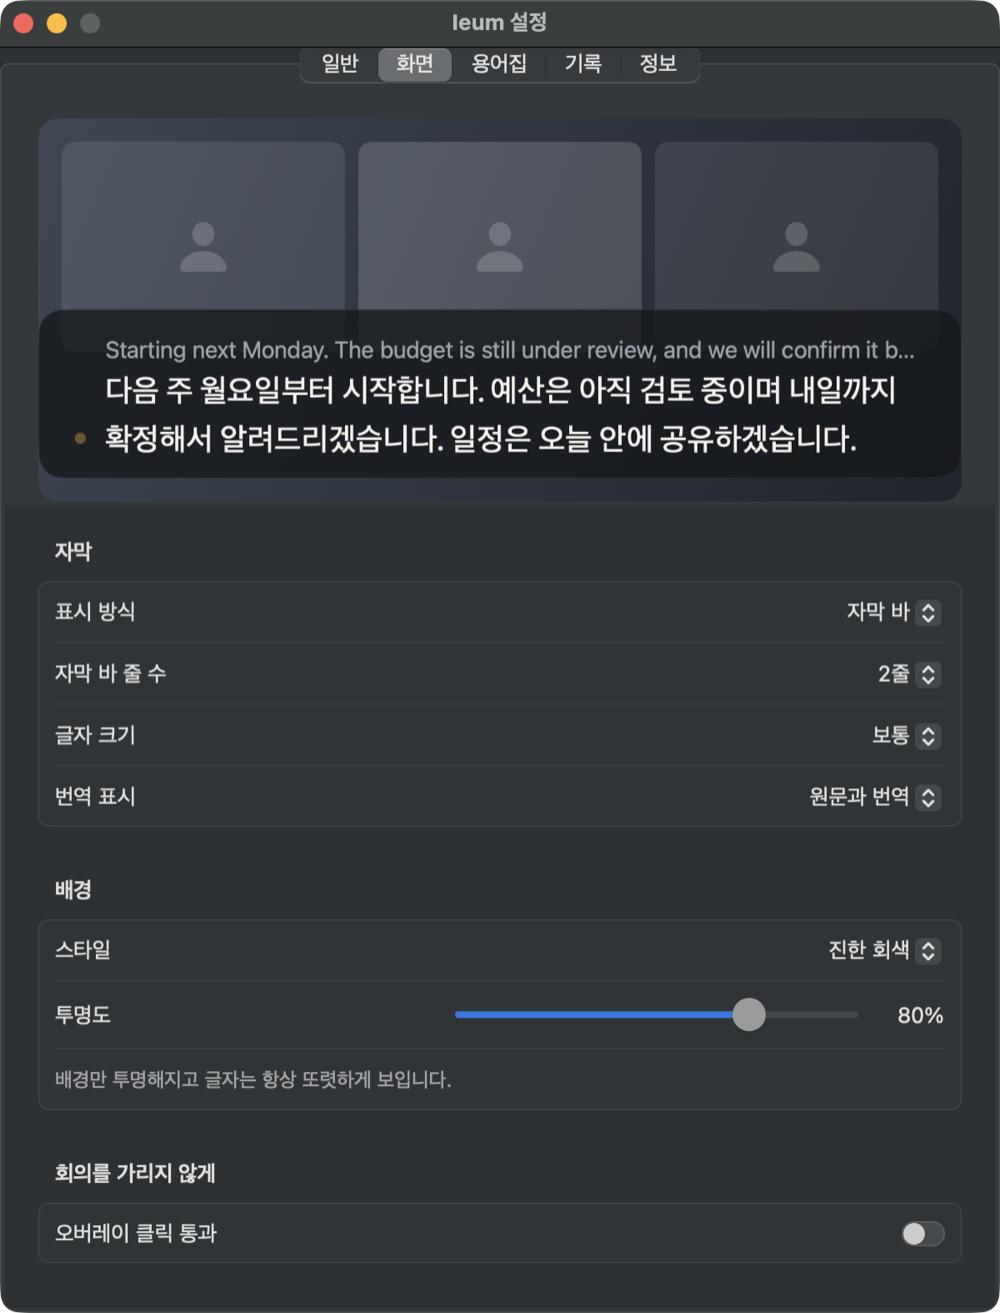
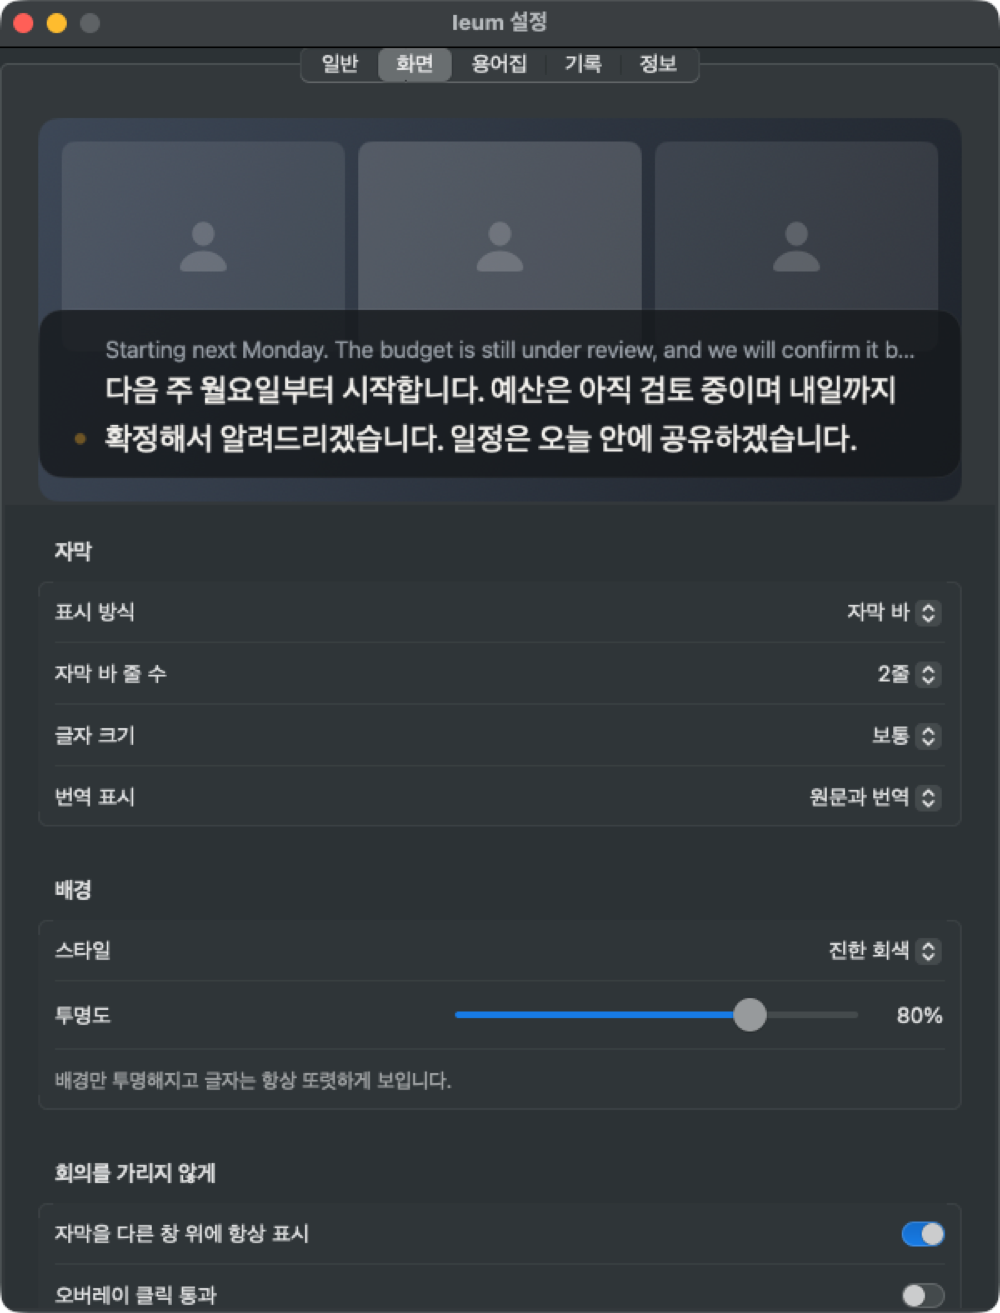
Choose whether the captions stay above all windows
The overlay was always a floating window. A new setting (Settings > Display, the menu bar
menu and the overlay menu) lets it behave like an ordinary window that other windows
can cover. In that mode the show/hide shortcut brings a covered overlay forward instead
of hiding it, and a Bring captions to the front item appears. Default is unchanged (on top).

diff --git a/Sources/OverlayApp/OverlayWindow.swift b/Sources/OverlayApp/OverlayWindow.swift
@@ -29,7 +29,7 @@ final class OverlayWindowController {
         panel.isOpaque = false
         panel.backgroundColor = .clear
         panel.hasShadow = true
-        panel.level = .floating
+        panel.level = model.keepsOnTop ? .floating : .normal
         panel.collectionBehavior = [.canJoinAllSpaces, .fullScreenAuxiliary, .ignoresCycle]
         panel.isMovableByWindowBackground = true
         panel.hidesOnDeactivate = false
@@ -65,6 +65,11 @@ final class OverlayWindowController {
             .store(in: &cancellables)
 
         // Hidden and click-through are state of the model; the window just follows.
+        model.$keepsOnTop
+            .dropFirst()
+            .receive(on: DispatchQueue.main)
+            .sink { [weak self] _ in self?.applyPresence() }
+            .store(in: &cancellables)
         model.$overlayVisible
             .receive(on: DispatchQueue.main)
             .sink { [weak self] _ in self?.applyPresence() }
@@ -92,8 +97,35 @@ final class OverlayWindowController {
             panel.orderOut(nil)
             return
         }
-        panel.orderFrontRegardless()
+        panel.level = model.keepsOnTop ? .floating : .normal
+        // On top, the captions are always raised. As an ordinary window they are only raised when they were not showing,
+        // so a status change never pulls them over what the person is working in.
+        if model.keepsOnTop || !panel.isVisible { panel.orderFrontRegardless() }
         panel.alphaValue = 1
+    }
+
+    func bringToFront() { panel.orderFrontRegardless() }
+
+    /// Whether another app's window sits above the captions and overlaps them (only meaningful when they are not kept on top).
+    func isCoveredByAnotherWindow() -> Bool {
+        guard panel.isVisible,
+              let windows = CGWindowListCopyWindowInfo([.optionOnScreenOnly], kCGNullWindowID) as? [[String: Any]],
+              let primary = NSScreen.screens.first
+        else { return false }
+        // Window bounds are top-left based; AppKit frames are bottom-left based on the primary screen.
+        let frame = panel.frame
+        let mine = CGRect(x: frame.minX, y: primary.frame.height - frame.maxY, width: frame.width, height: frame.height)
+        let ownPID = ProcessInfo.processInfo.processIdentifier
+        for window in windows {   // front to back
+            if (window[kCGWindowNumber as String] as? Int) == panel.windowNumber { return false }
+            guard (window[kCGWindowOwnerPID as String] as? Int32) != ownPID,
+                  (window[kCGWindowLayer as String] as? Int) == 0,
+                  let bounds = window[kCGWindowBounds as String] as? [String: CGFloat],
+                  let x = bounds["X"], let y = bounds["Y"], let width = bounds["Width"], let height = bounds["Height"]
+            else { continue }
+            if CGRect(x: x, y: y, width: width, height: height).intersects(mine) { return true }
+        }
+        return false
     }
 
     // MARK: Placement

diff --git a/Sources/OverlayApp/MenuBarController.swift b/Sources/OverlayApp/MenuBarController.swift
@@ -86,6 +86,12 @@ final class MenuBarController: NSObject, NSMenuDelegate {
         let visibility = action(model.overlayVisible ? tr("Hide overlay", "오버레이 숨기기") : tr("Show overlay", "오버레이 보이기"), #selector(toggleOverlay), key: "h")
         visibility.keyEquivalentModifierMask = [.control, .option]
         menu.addItem(visibility)
+        let onTop = action(tr("Keep on top of other windows", "다른 창 위에 항상 표시"), #selector(toggleKeepOnTop))
+        onTop.state = model.keepsOnTop ? .on : .off
+        menu.addItem(onTop)
+        if !model.keepsOnTop {
+            menu.addItem(action(tr("Bring captions to the front", "자막을 앞으로 가져오기"), #selector(bringToFront)))
+        }
         let display = action(model.displayMode == .bar ? tr("Switch to transcript panel", "기록 패널로 전환") : tr("Switch to subtitle bar", "자막 바로 전환"), #selector(cycleDisplay), key: "d")
         display.keyEquivalentModifierMask = [.control, .option]
         menu.addItem(display)
@@ -111,6 +117,8 @@ final class MenuBarController: NSObject, NSMenuDelegate {
 
     @objc private func toggleRunning() { model.toggleRunning() }
     @objc private func toggleOverlay() { model.toggleOverlayVisible() }
+    @objc private func bringToFront() { model.bringOverlayToFront() }
+    @objc private func toggleKeepOnTop() { model.setKeepsOnTop(!model.keepsOnTop) }
     @objc private func swapDirection() { model.swapDirection() }
     @objc private func cycleDisplay() { model.cycleDisplayMode() }
     @objc private func showSettings() { openSettings() }

diff --git a/Sources/OverlayApp/AppModel.swift b/Sources/OverlayApp/AppModel.swift
@@ -43,8 +43,11 @@ final class AppModel: ObservableObject {
     private var testVoice: Process?
     /// Set by the app delegate: the overlay's menu opens the windows it owns.
     var openSettings: () -> Void = {}
+    var bringOverlayToFront: () -> Void = {}
+    var overlayIsCovered: () -> Bool = { false }
     var openSetup: () -> Void = {}
     @Published private(set) var clickThrough = Preferences.clickThrough
+    @Published private(set) var keepsOnTop = Preferences.keepsOnTop
     @Published private(set) var globalShortcuts = Preferences.globalShortcuts
     @Published private(set) var uiLanguage = Preferences.uiLanguage
 
@@ -316,7 +319,20 @@ final class AppModel: ObservableObject {
         updateSecondaryRow()
     }
 
-    func toggleOverlayVisible() { overlayVisible.toggle() }
+    /// The show/hide shortcut. When the captions can sit behind other windows and one covers them, it brings them forward
+    /// instead of hiding what the person is trying to see.
+    func toggleOverlayVisible() {
+        if overlayVisible, !keepsOnTop, overlayIsCovered() {
+            bringOverlayToFront()
+            return
+        }
+        overlayVisible.toggle()
+    }
+
+    func setKeepsOnTop(_ on: Bool) {
+        keepsOnTop = on
+        Preferences.keepsOnTop = on
+    }
 
     // MARK: Settings: behavior
 

diff --git a/Sources/OverlayApp/SettingsView.swift b/Sources/OverlayApp/SettingsView.swift
@@ -197,6 +197,13 @@ private struct DisplayTab: View {
                     .foregroundStyle(.secondary)
             }
             Section(tr("Stay out of the way", "회의를 가리지 않게")) {
+                Toggle(tr("Keep captions on top of other windows", "자막을 다른 창 위에 항상 표시"), isOn: Binding(get: { model.keepsOnTop }, set: model.setKeepsOnTop))
+                if !model.keepsOnTop {
+                    Text(tr("Other windows can cover the captions, like any window. Press ⌃⌥H to bring them back to the front.",
+                            "다른 창이 자막을 가릴 수 있습니다(일반 창처럼). ⌃⌥H를 누르면 자막이 앞으로 나옵니다."))
+                        .font(.system(size: 12))
+                        .foregroundStyle(.secondary)
+                }
                 Toggle(tr("Click through the overlay", "오버레이 클릭 통과"), isOn: Binding(get: { model.clickThrough }, set: model.setClickThrough))
                 if model.clickThrough {
                     Text(tr("Clicks go to the window underneath. Turn this off to move or resize the overlay.",

diff --git a/Sources/OverlayApp/OverlayViews.swift b/Sources/OverlayApp/OverlayViews.swift
@@ -211,6 +211,10 @@ struct OverlayMenuButton: View {
                 }
             }
             Button(model.displayMode == .bar ? tr("Show transcript panel", "기록 패널로 전환") : tr("Show subtitle bar", "자막 바로 전환")) { model.cycleDisplayMode() }
+            Toggle(tr("Keep on top of other windows", "다른 창 위에 항상 표시"), isOn: Binding(get: { model.keepsOnTop }, set: model.setKeepsOnTop))
+            if !model.keepsOnTop {
+                Button(tr("Bring captions to the front", "자막을 앞으로 가져오기")) { model.bringOverlayToFront() }
+            }
             Divider()
             Button(tr("Settings…", "설정…")) { model.openSettings() }
             Button(tr("Permissions and setup…", "권한 및 설정 점검…")) { model.openSetup() }

diff --git a/Sources/OverlayApp/main.swift b/Sources/OverlayApp/main.swift
@@ -28,6 +28,8 @@ final class AppDelegate: NSObject, NSApplicationDelegate {
         model.openSettings = { [weak self] in self?.settingsWindow?.show() }
         model.openSetup = { [weak self] in self?.setupWindow?.show() }
         overlay = OverlayWindowController(model: model)
+        model.bringOverlayToFront = { [weak self] in self?.overlay?.bringToFront() }
+        model.overlayIsCovered = { [weak self] in self?.overlay?.isCoveredByAnotherWindow() ?? false }
         menu = MenuBarController(
             model: model,
             openSettings: { [weak self] in self?.settingsWindow?.show() },

diff --git a/Sources/OverlayApp/Preferences.swift b/Sources/OverlayApp/Preferences.swift
@@ -83,6 +83,12 @@ enum Preferences {
         set { defaults.set(newValue, forKey: "showsWordsSooner") }
     }
 
+    /// Keep the captions above every other window. Off: they behave like an ordinary window and can sit behind others.
+    static var keepsOnTop: Bool {
+        get { flag("keepsOnTop", default: true) }
+        set { defaults.set(newValue, forKey: "keepsOnTop") }
+    }
+
     static var clickThrough: Bool {
         get { flag("clickThrough", default: false) }
         set { defaults.set(newValue, forKey: "clickThrough") }

diff --git a/docs/PRD.md b/docs/PRD.md
@@ -72,6 +72,7 @@
 - **기록 패널**: 시각이 붙은 스크롤 목록, 선택/복사 가능. 문장마다 원문이 위, 번역이 아래. 번역 없는 모드는 그 언어만 나온다.
 - 꺼져 있을 때는 한 줄짜리 바에 "자막 시작" 버튼과 단축키가 보이고, 켜져 있을 때 패널 헤더에는 "중지" 버튼이 있다.
 - 클릭 통과 옵션, 위치와 크기 기억, 모든 Spaces/전체 화면 위에 표시.
+- **창 위치(z-order) 선택**: 기본은 항상 다른 창 위(floating). 끄면 일반 창이 되어 다른 창 뒤로 갈 수 있다. 이때 ⌃⌥H는 자막이 다른 앱 창에 가려져 있으면 숨기는 대신 앞으로 가져오고, 메뉴/⋯ 메뉴에 "자막을 앞으로 가져오기"가 나온다. 켜고 끄는 곳: 설정 → 화면, 메뉴 막대 메뉴, ⋯ 메뉴.
 - 수용: 한글과 영문이 같은 크기로 보이도록 한글은 0.86배(패널 0.92배). 바 높이는 줄 수에 정확히 맞아 글자가 반쯤 잘리지 않는다.
 
 ### F6. 설정 (일반 / 화면 / 용어집 / 기록 / 정보)
@@ -197,3 +198,4 @@ macOS 26 미만 경로, 저지연(lowLatency) 번역 모델(이 Mac에 미설치
 | v0.2.5 | 중지 후에도 번역 유지, 패널에서 원문 위 번역 아래, 번역 없는 모드는 한 가지 언어만. |
 | v0.2.6 | 메뉴 막대 아이콘이 숨겨져도 쓸 수 있도록 오버레이에 ⋯ 메뉴 버튼, 상태 아이템에 고유 이름. |
 | v0.2.7 | 첫 실행 "체험해 보기" 테스트. |
+| (다음) | 자막을 다른 창 위에 항상 표시할지 선택. |

diff --git a/README.md b/README.md
@@ -39,7 +39,7 @@ The other side talks and you read Korean. You answer in Korean and the English i
 | **Try it** | A built-in test plays a sentence through the speakers and shows it come back as captions and a translation, so you know it works before the meeting. Nothing is saved. |
 | **Meeting modes** | Korean → English, English → Korean, Korean captions, English captions (no translation), or **detect the language and translate** (both ways, decided per sentence). |
 | **Words as they are spoken** | The first words appear about half a second after you start speaking, then word by word. A second recognizer shows them early; the more accurate one confirms each sentence. |
-| **Subtitle bar** | Large text for reading at a glance. Lines, text size, background style and opacity are adjustable. It can be click-through. |
+| **Subtitle bar** | Large text for reading at a glance. Lines, text size, background style and opacity are adjustable. It can stay above every window or behave like an ordinary one, and it can be click-through. |
 | **Transcript panel** | Timestamped scrollback with selectable text and auto-scroll. |
 | **Meeting vocabulary** | Names and jargon you list are corrected in the transcript before it is translated. |
 | **Saved scripts** | One file per meeting: `[HH:mm:ss] text` with `→ translation` lines, and `[EN]`/`[KO]` tags in conversation mode. Listed in Settings. |
